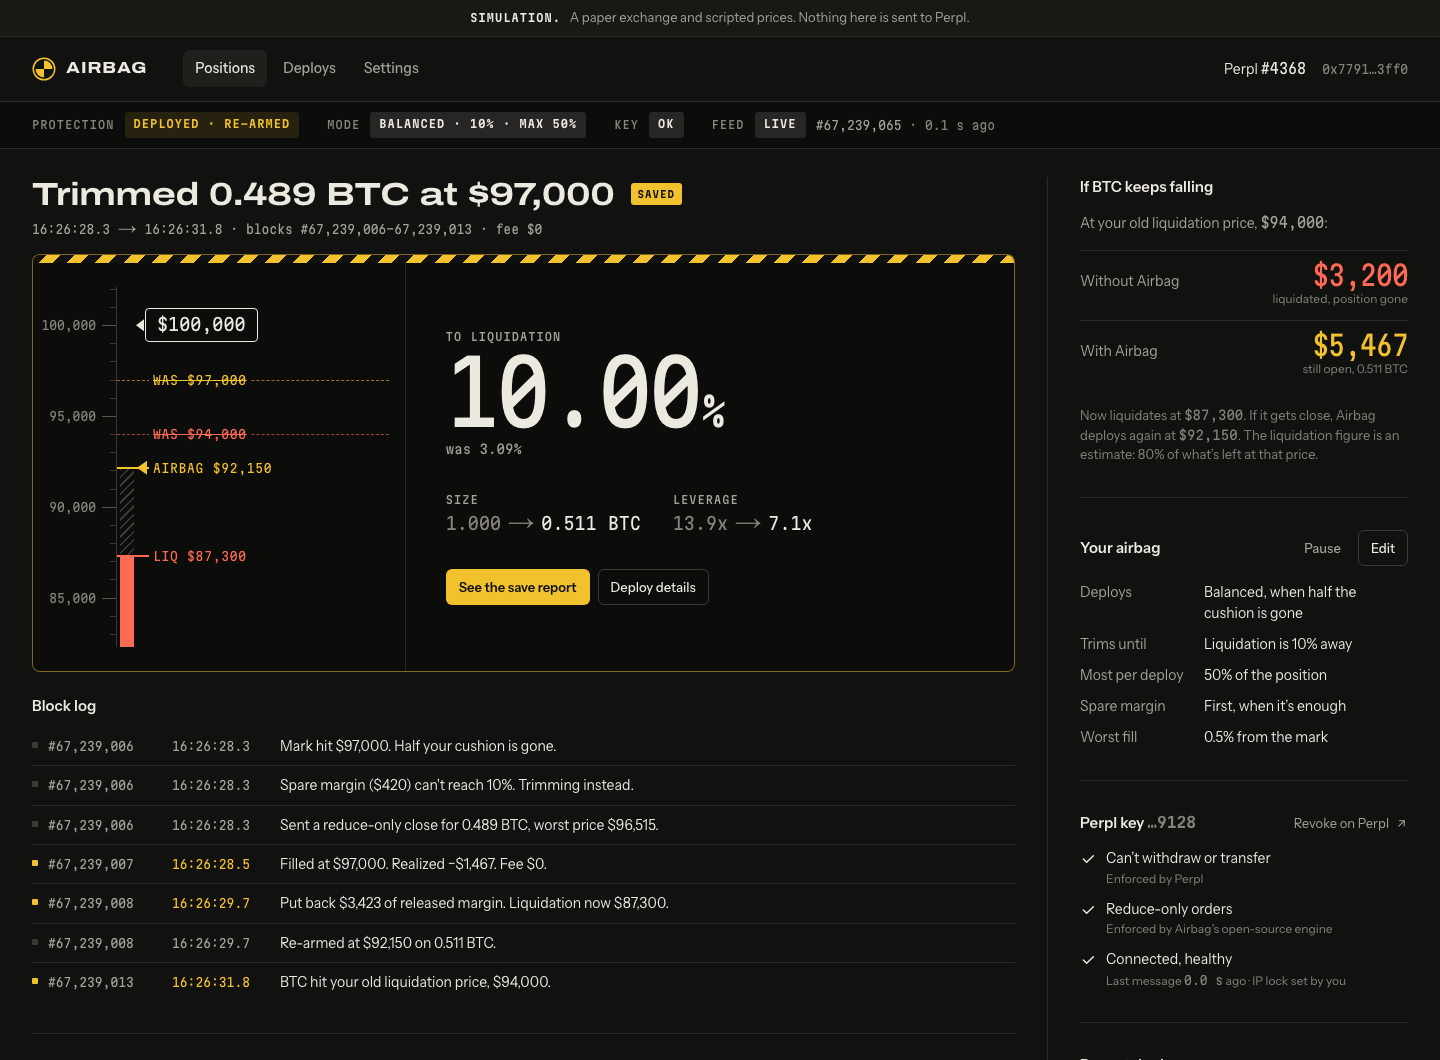
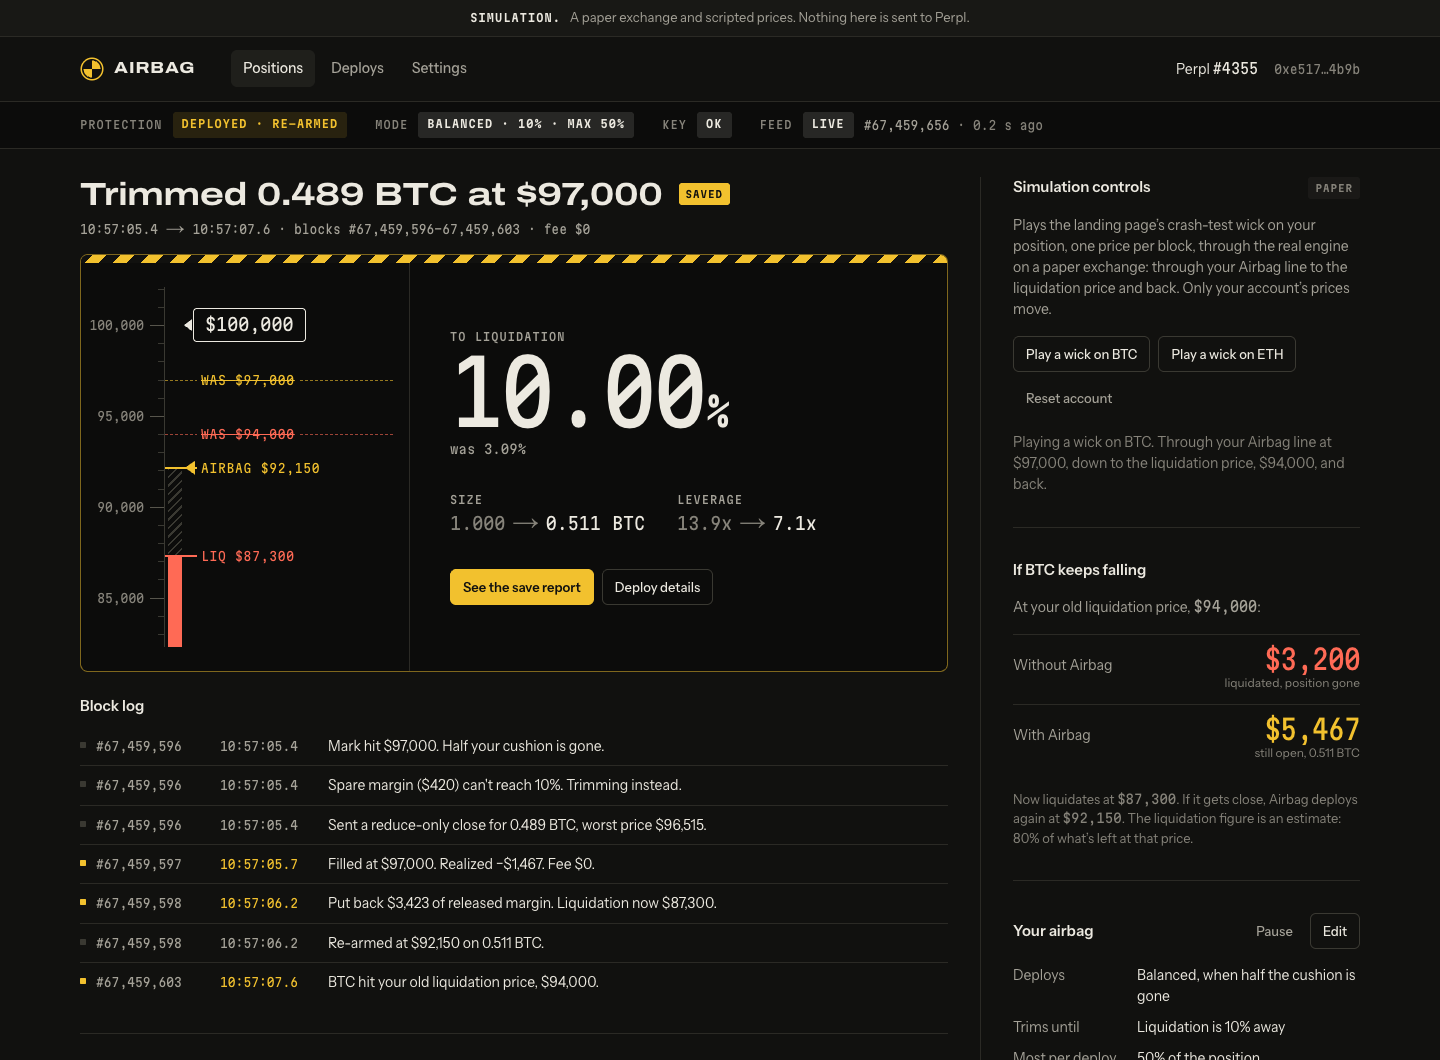
docs(readme): current screenshots, the ETH wick, and this pass's disclosure
The two images showed the old layout. They're retaken from a fresh simulated
deploy on Monad testnet's blocks (67,459,596 to 67,459,603), and the caption
follows them. The demo steps mention the ETH wick and the share card; the AI
disclosure table gets a row for this pass.

diff --git a/README.md b/README.md
@@ -9,15 +9,16 @@ in to move liquidation further away. Trading fees, slippage and outages still ma
 is not guaranteed. It acts through a Perpl API key that cannot withdraw.
 
 **Try it: https://airbag.user64bit.world** — the simulation, no wallet extension needed:
-"Connect a test wallet", "Use a test key", arm, then "Play a wick on BTC" on the dashboard. The
-exchange is paper and the prices are scripted; the blocks are Monad testnet's own.
+"Connect a test wallet", "Use a test key", arm, then "Play a wick on BTC" (or ETH) on the
+dashboard. The wick is shaped to your position: through its Airbag line to its liquidation price
+and back. The exchange is paper and the prices are scripted; the blocks are Monad testnet's own.
 
 ![The dashboard just after a deploy: the trim, the re-add and the save in the block log, on Monad testnet blocks](docs/img/dashboard-deploy.png)
 
-*A simulated deploy on Monad testnet's real blocks: the line is crossed in block 67,239,006, the
+*A simulated deploy on Monad testnet's real blocks: the line is crossed in block 67,459,596, the
 reduce-only close fills in the next block, the released margin goes back in the one after, and
-the old liquidation price is reached while the trimmed position is still open. The public save
-report it produced:*
+the old liquidation price is reached five blocks later while the trimmed position is still open.
+The public save report it produced, with its share card one click away:*
 
 ![A public save report: $5,333 kept versus a liquidation](docs/img/save-report.png)
 
@@ -104,7 +105,8 @@ Open http://localhost:3000/connect. In simulation, "Connect a test wallet" is a 
 by the page, so the whole flow can be clicked through without a browser extension; an injected
 wallet such as Rabby or MetaMask works too. Sign in, use "Use a test key", arm, and press "Play a
 wick on BTC" on the dashboard: the engine trims, re-adds, re-arms and records a save, and the save
-report has a share card. Everything is labelled as simulated. Each wallet has its own simulated
+report has a share card to post, copy or download. "Play a wick on ETH" shows the other path:
+spare margin goes in instead of a trim. Everything is labelled as simulated. Each wallet has its own simulated
 prices, so visitors to one engine never move each other's positions, and "Reset account" puts
 that wallet back to the start.
 
@@ -154,6 +156,7 @@ This project is built with AI coding tools, as the hackathon rules allow. What w
 | Original code, tests and CI through `46d3a4b` | Claude Code (Anthropic, Claude Opus 5.5) | Pending |
 | 2026-09-27 audit, security/reliability/fee corrections, browser resilience, tests and operations documentation | Codex (OpenAI, GPT-6) | Pending |
 | 2026-10-01 live checks against testnet, live-path fixes, per-wallet simulation on Monad's block clock, demo deployment and docs | Claude Code (Anthropic, Claude Opus 5.5) | Pending |
+| 2026-10-02 product pass: one page frame and side bays, the loader, the share dialog and share images, per-position demo wicks, the save-value fix for later spare-margin adds, page titles, and docs | Claude Code (Anthropic, Claude Opus 5.5), from the owner's list and its own review | Pending |
 
 Commits carry no co-author trailer, at the owner's request, so the table above is the disclosure of
 record. It is updated as the owner reviews each part.
